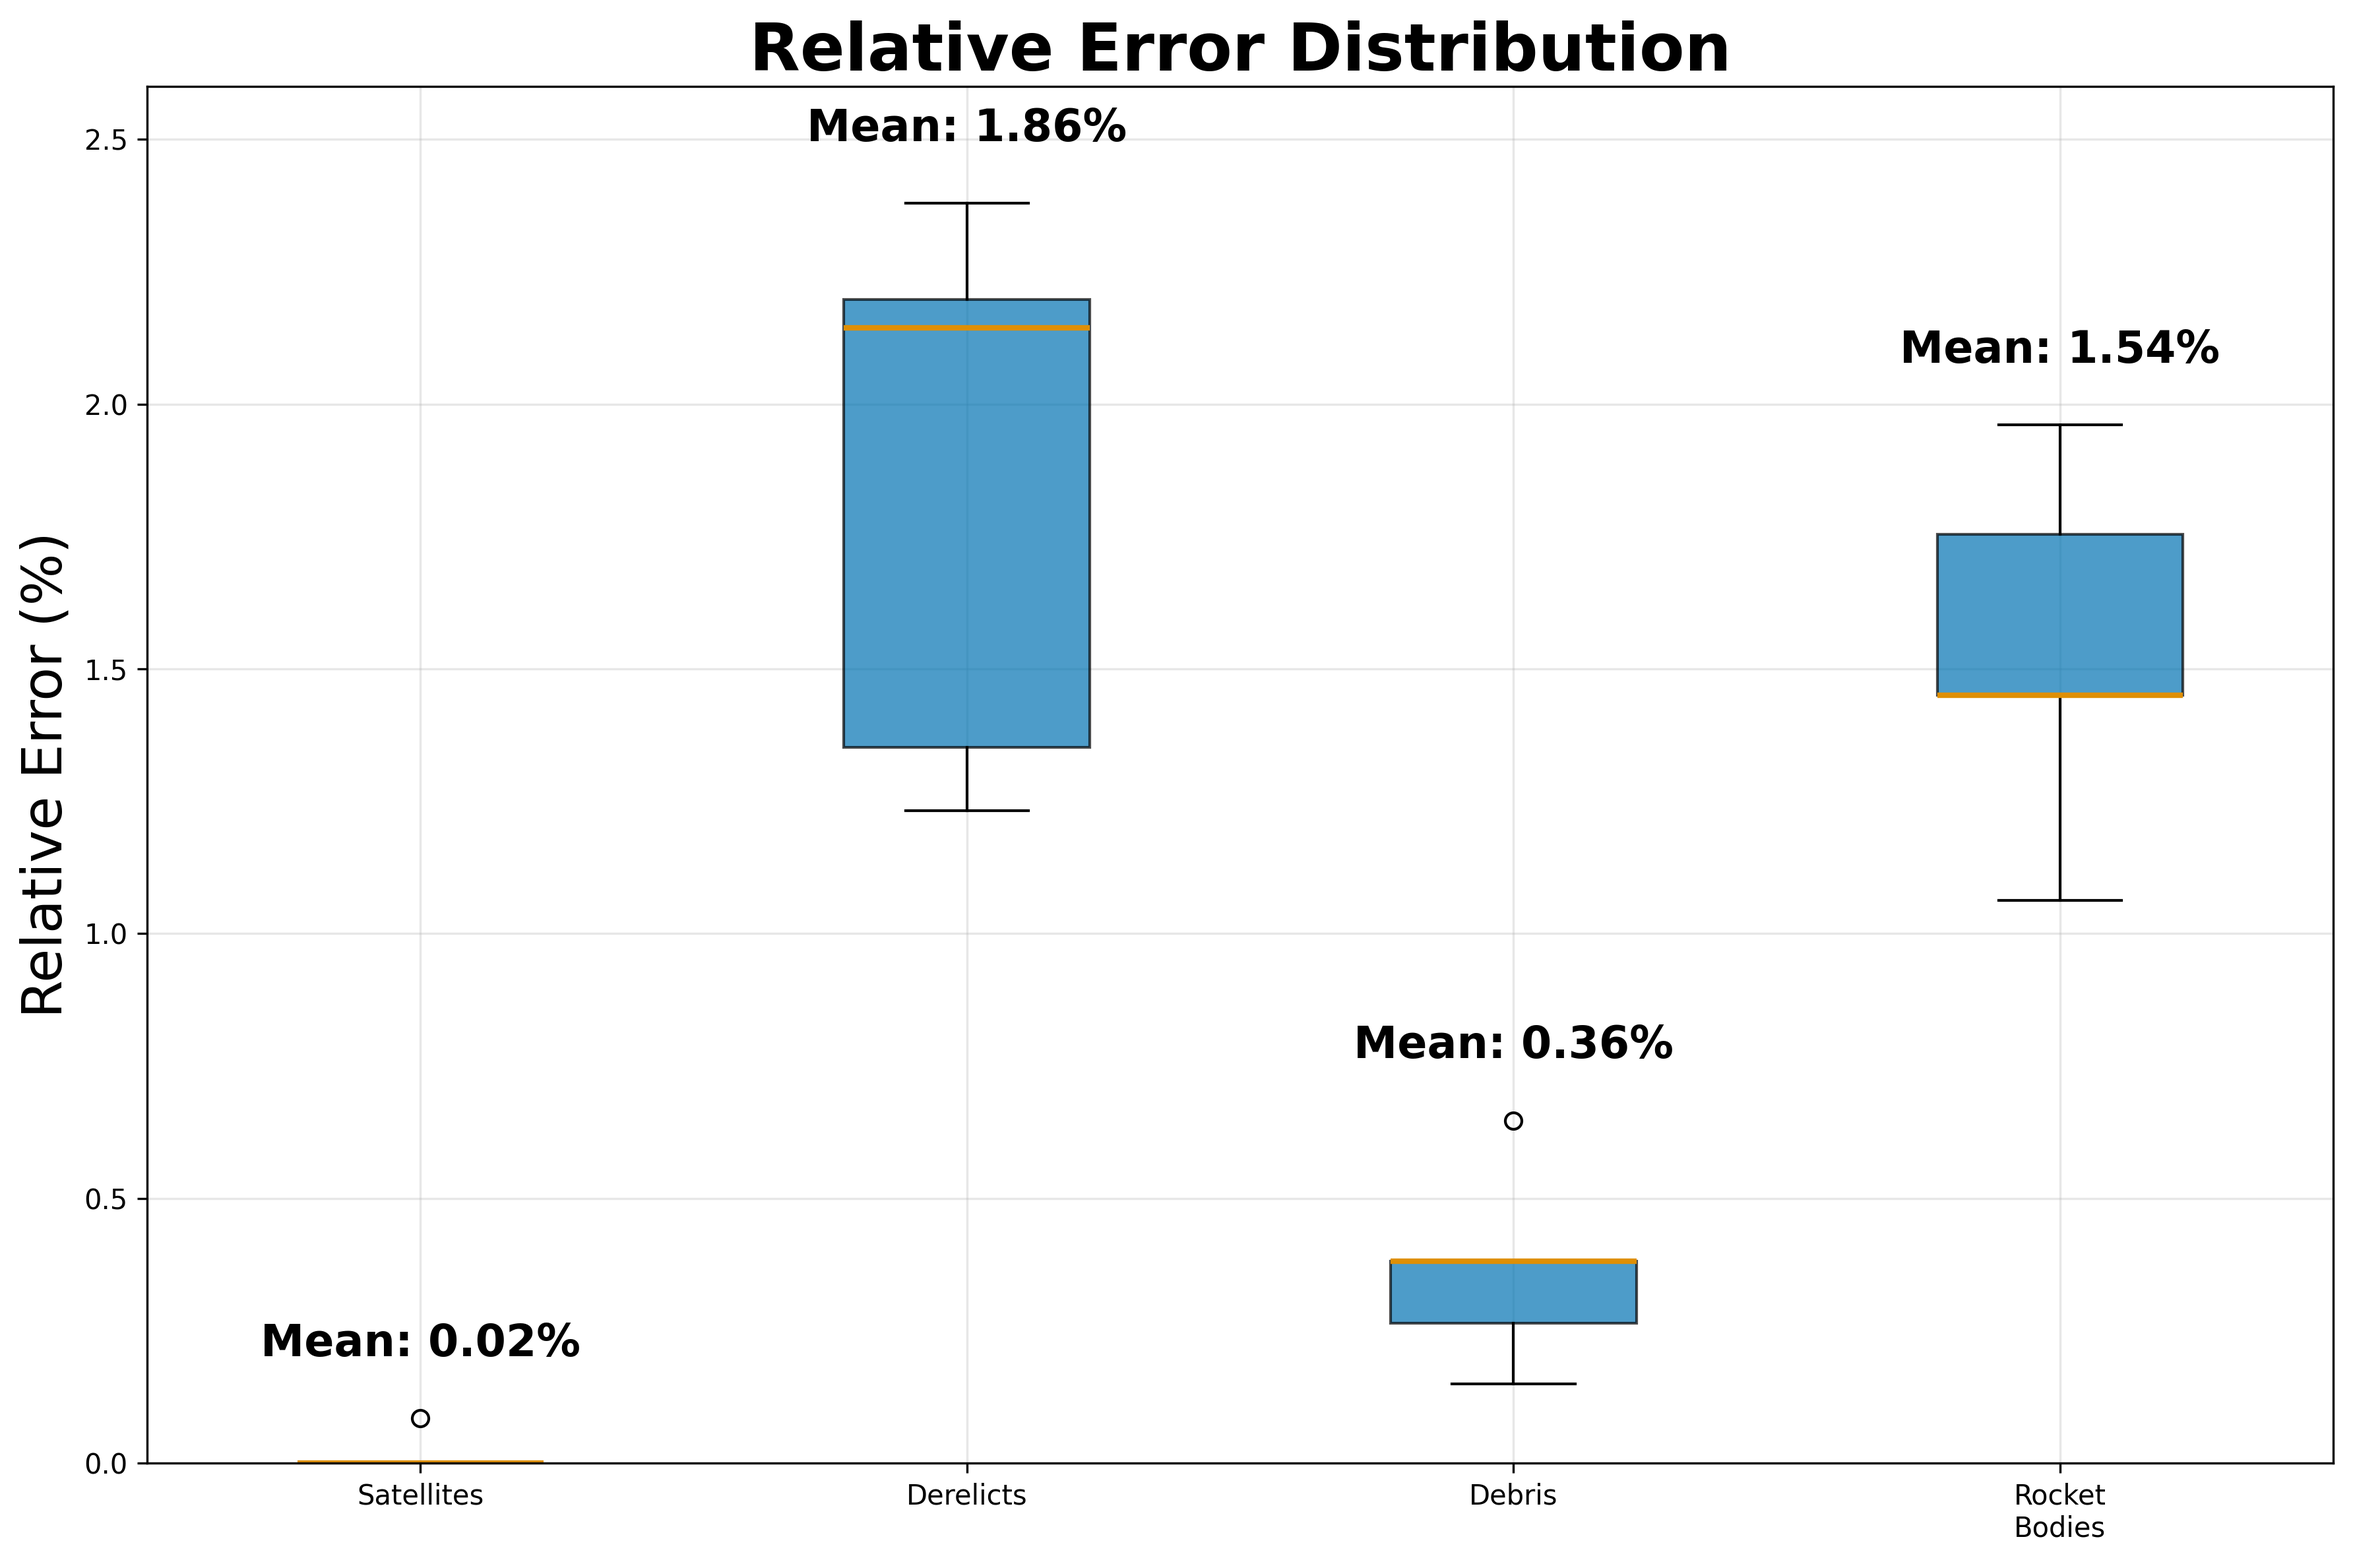
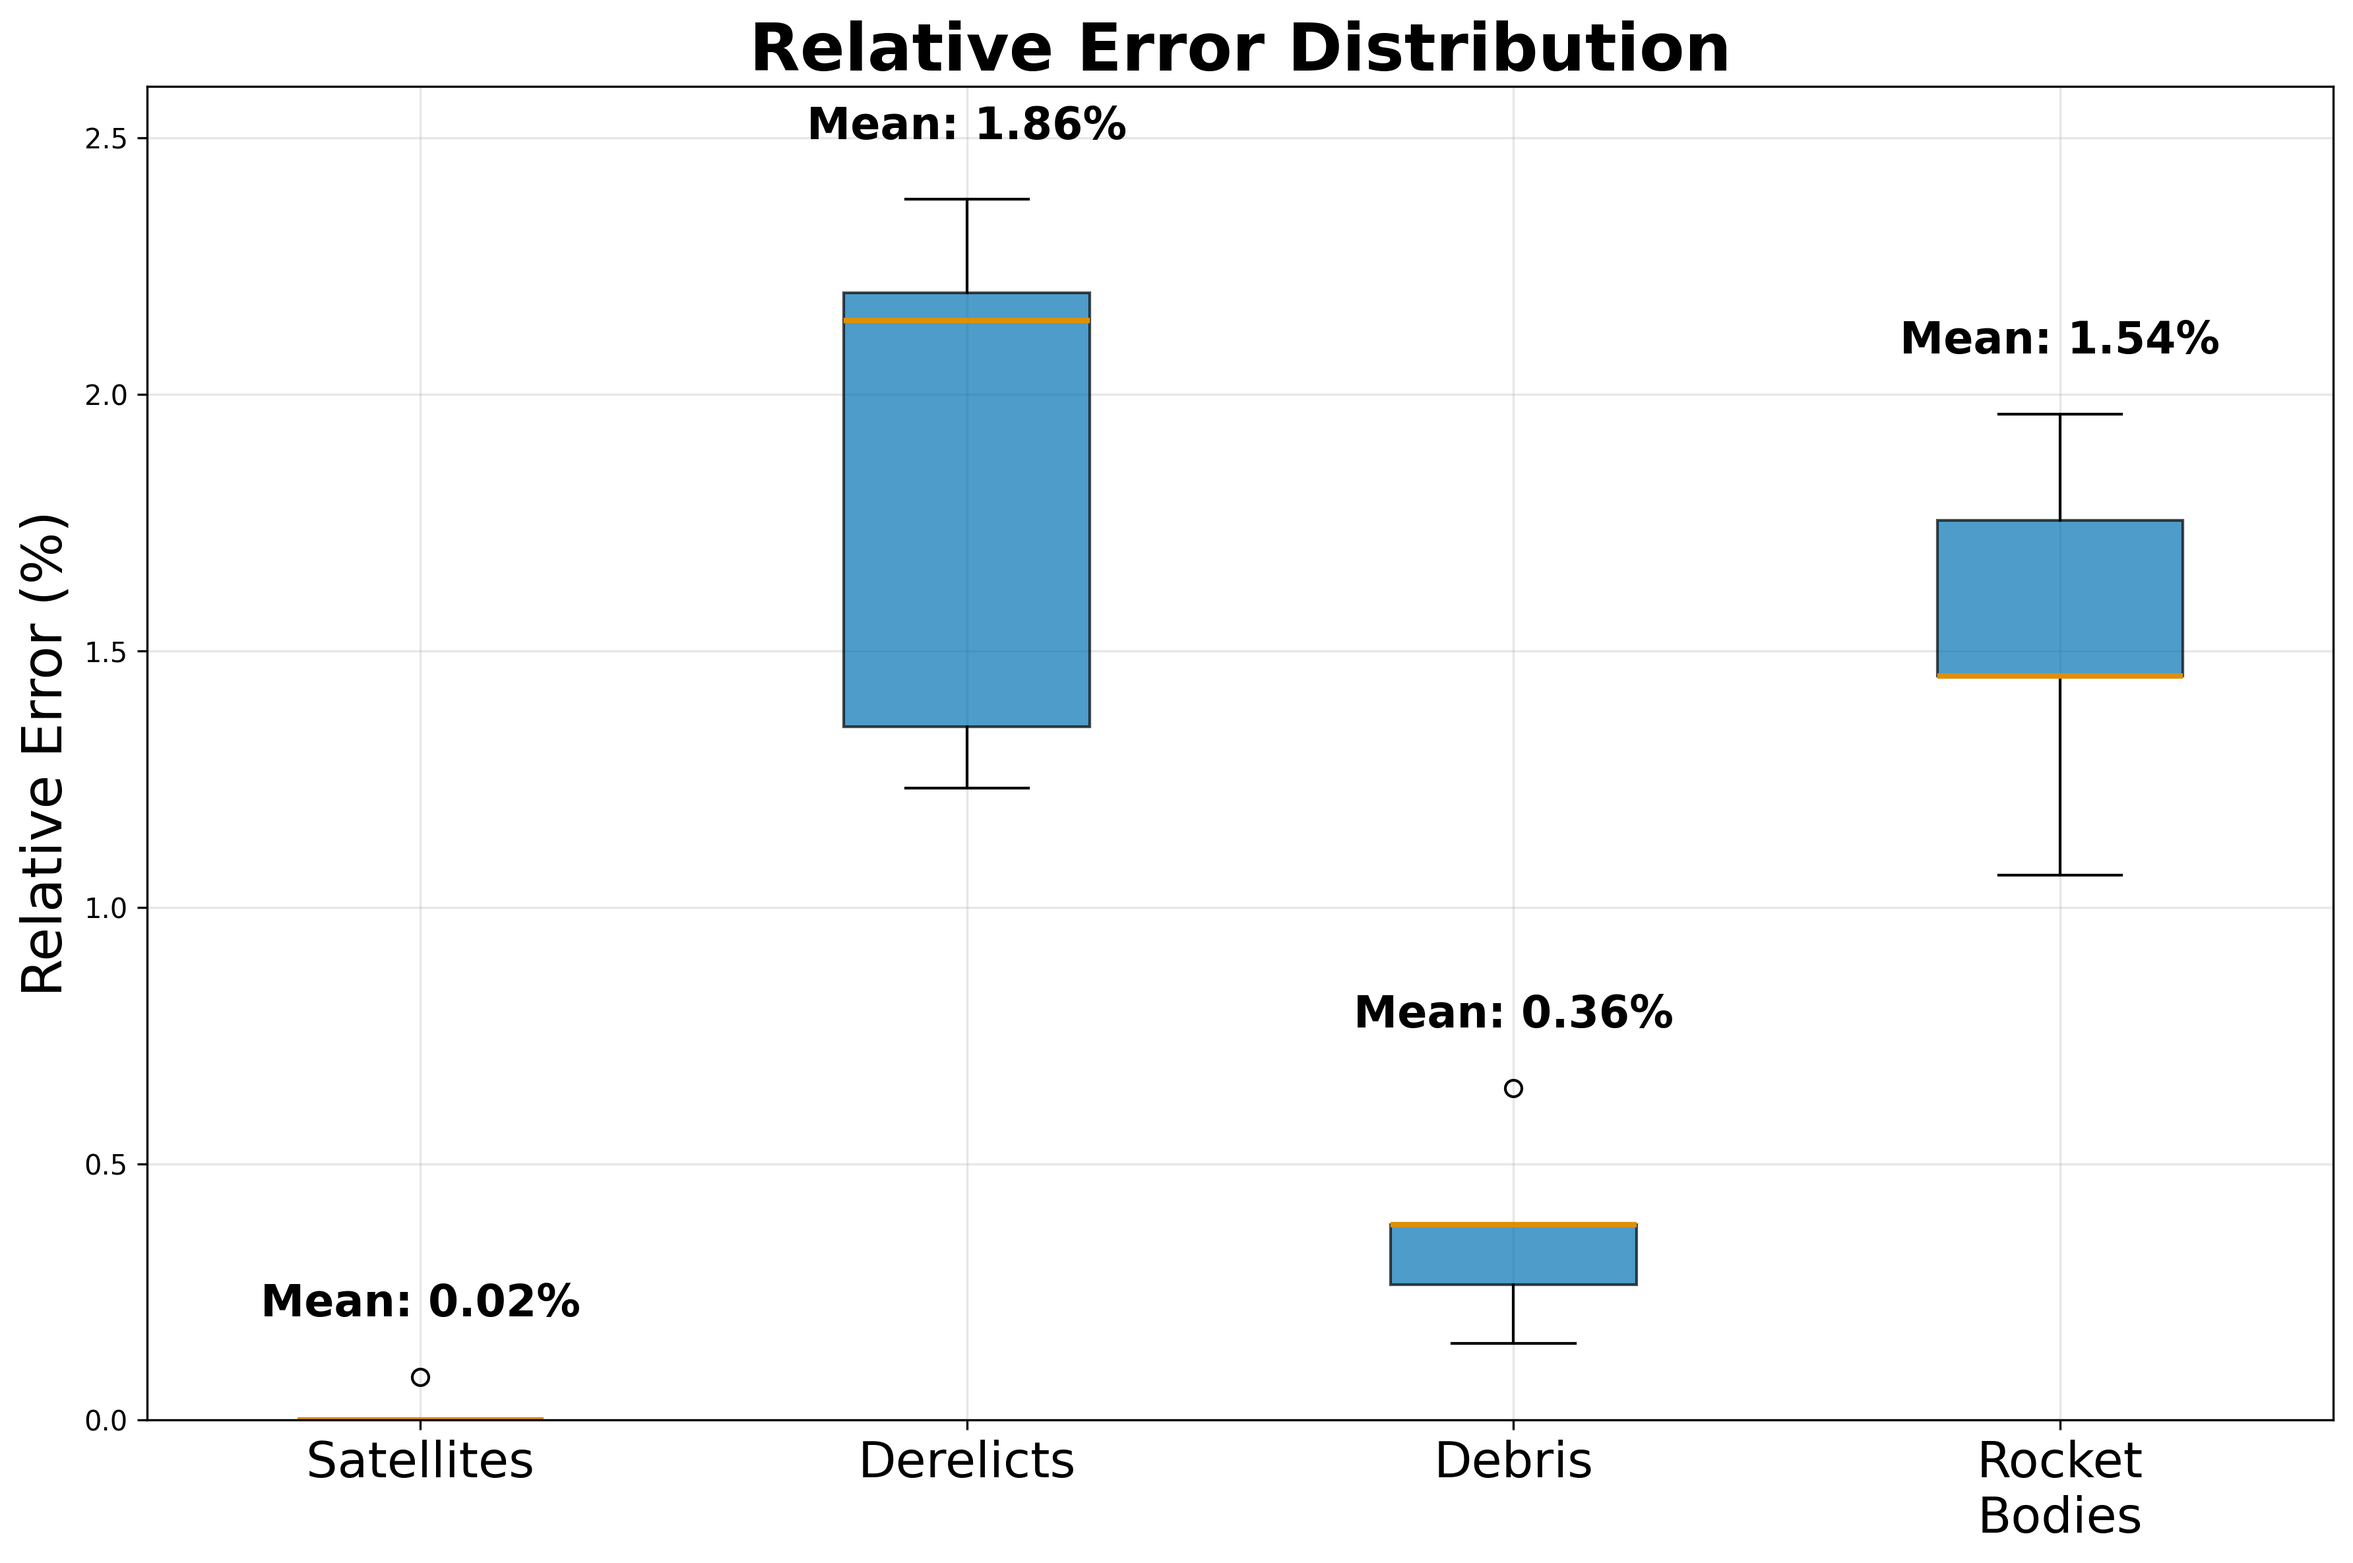
Update figures & paper

diff --git a/analysis_figures/plot_error_analysis.py b/analysis_figures/plot_error_analysis.py
@@ -36,6 +36,7 @@ def create_error_box_plots():
     
     ax.set_title('Relative Error Distribution', fontsize=24, fontweight='bold')
     ax.set_ylabel('Relative Error (%)', fontsize=20)
+    ax.tick_params(axis='x', labelsize=18)  # Increase x-axis label font size
     ax.grid(True, alpha=0.3)
     ax.set_ylim(bottom=0, top=2.6)
     

diff --git a/analysis_figures/plot_execution_time.py b/analysis_figures/plot_execution_time.py
@@ -36,7 +36,7 @@ def plot_execution_time():
     ax.grid(True, alpha=0.3)
     
     # Set y-axis limits
-    ax.set_ylim(bottom=0.01, top=220)
+    ax.set_ylim(bottom=0.01, top=350)
     
     # Add time values on bars
     for i, (py, mat) in enumerate(zip(python_times, matlab_times)):

diff --git a/paper/paper.md b/paper/paper.md
@@ -12,39 +12,35 @@ authors:
     affiliation: 1
   - name: Edward J. Oughton
     orcid: 0000-0002-2766-008X
-    affiliation: 2
+    affiliation: 1
   - name: Giovanni Lavezzi
     orcid: 0000-0002-1990-4574
-    affiliation: 3
+    affiliation: 2
   - name: Enrico M. Zucchelli
     orcid: 0000-0001-8894-2016
-    affiliation: 3
+    affiliation: 2
   - name: Daniel Jang
     orcid: 0000-0001-7852-0151
-    affiliation: 4
+    affiliation: 3
   - name: Richard Linares
     orcid: 0000-0001-8325-7378
-    affiliation: 3
+    affiliation: 2
 affiliations:
-  - name: |
-      Thomas Jefferson High School for Science and Technology,
-      Alexandria, VA, USA
-    index: 1
   - name: |
       Department of Geography and Geoinformation Science,
       George Mason University,
       Fairfax, VA, USA
-    index: 2
+    index: 1
   - name: |
       Department of Aeronautics and Astronautics,
       Massachusetts Institute of Technology,
       Cambridge, MA, USA
-    index: 3
+    index: 2
   - name: |
       Lincoln Laboratory,
       Massachusetts Institute of Technology,
       Lexington, MA, USA
-    index: 4
+    index: 3
 date: 13 August 2025
 bibliography: paper.bib
 aas-journal: Journal of Open Source Software
